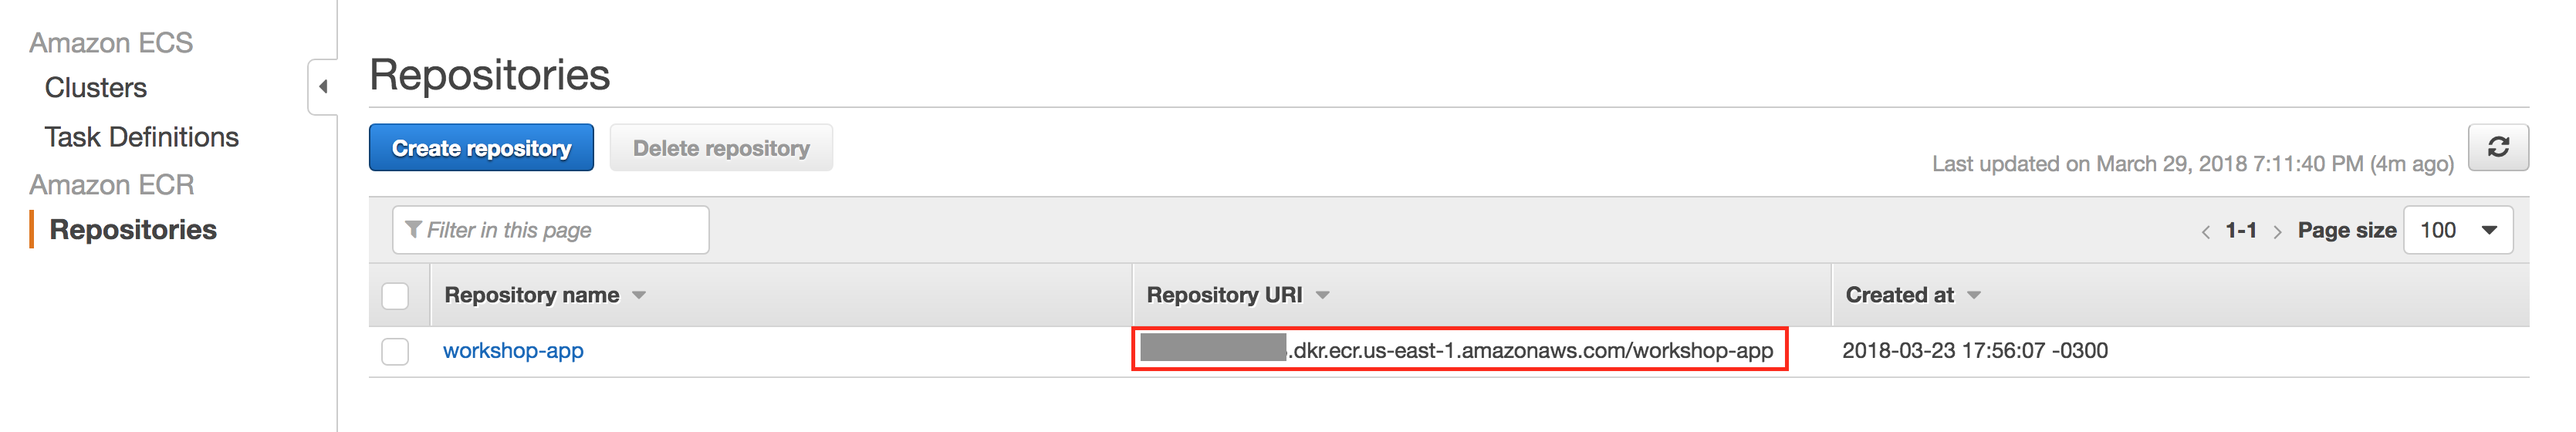
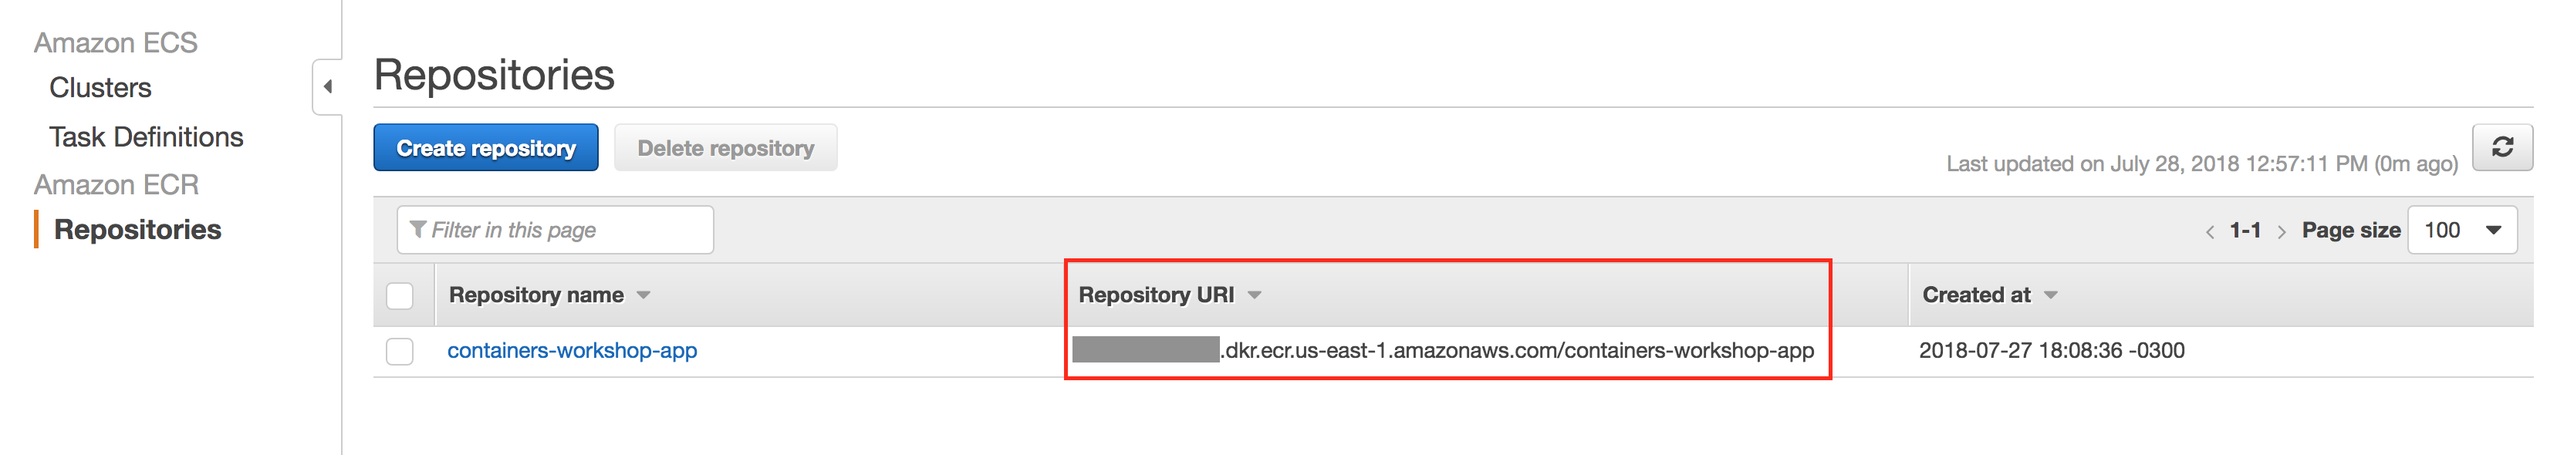
Adding new content

diff --git a/04-DeployEcsCluster/README.md b/04-DeployEcsCluster/README.md
@@ -10,8 +10,7 @@
 * [4. Creating the Task Definition](/04-DeployEcsCluster#4-creating-the-task-definition)
 * [5. Creating the Service](/04-DeployEcsCluster#5-creating-the-service)
 * [6. Testing our service deployments from the console and the ALB](/04-DeployEcsCluster#6-testing-our-service-deployments-from-the-console-and-the-alb)
-* [7. More in-depth logging with CloudWatch](/04-DeployEcsCluster#7-more-in-depth-logging-with-cloudwatch)
-* [8. That's a wrap!](/04-DeployEcsCluster#8-thats-a-wrap)
+* [7. That's a wrap!](/04-DeployEcsCluster#7-thats-a-wrap)
 
 
 ## 1. Tutorial overview
@@ -44,7 +43,7 @@ You will then be asked to input information about your new cluster. In the *Conf
 
 ### Networking
 * VPC: Select the VPC `containers-workshop-vpc` created in the [Create VPC tutorial](/03-CreateVPC)
-* Subnets: Select the `containers-on-aws-private-subnet-az1` and `containers-on-aws-private-subnet-az2` subnets in your VPC
+* Subnets: Select the `containers-workshop-private-subnet-az1` and `containers-workshop-private-subnet-az2` subnets in your VPC
 
 And them click in **Create**.
 
@@ -77,15 +76,18 @@ Name your ALB `containers-workshop-alb` and add an HTTP listener on port 80:
 
 ![name ALB](/04-DeployEcsCluster/images/create_alb.png)
 
-Next, select the VPC previously created and add at the private subnet created in the [Create VPC tutorial](/03-CreateVPC). If you have multiple VPC, and you're not sure which VPC is the correct one, you can find its ID from the VPC console.
+In this same screen, under **Availability Zones** select the VPC `containers-workshop-vpc` previously created  and add select the two public subnets:
 
-After adding the information about your VPC, click in **Next: Configure Security Settings**.
+![select subnets](/04-DeployEcsCluster/images/select_subnets.png)
+
+
+After adding the information about your Availability Zones, click in **Next: Configure Security Settings**.
 
 When clicking in next, you should see a message saying that your load balancer is not using any secure listener. We can just skip this screen, clicking in **Next: Configure Security Groups**.
 
 >NOTE: In a production environment, you should also have a secure listener on port 443.  This will require an SSL certificate, which can be obtained from [AWS Certificate Manager](https://aws.amazon.com/certificate-manager/), or from your registrar/any CA.  For the purposes of this workshop, we will only create the insecure HTTP listener. DO NOT RUN THIS IN PRODUCTION.
 
-Let's now create a security group to be used by your ALB. In the *Step 3: Configure Security Groups* screen, let's select the option `Create a new security group`. Change the **Security group name** to `workshop-alb-sg` and create a rule allowing all traffic in the port `80`:
+Let's now create a security group to be used by your ALB. In the *Step 3: Configure Security Groups* screen, let's select the option `Create a new security group`. Change the **Security group name** to `containers-workshop-alb-sg` and create a rule allowing all traffic in the port `80`:
 
 ![create alb security group](/04-DeployEcsCluster/images/create_alb_sg.png)
 
@@ -95,30 +97,22 @@ During this initial setup, we're just adding a dummy health check on `/`.  We'll
 
 ![add routing](/04-DeployEcsCluster/images/configure_alb_routing.png)
 
-Click in **Next: Register Targets** and them in **Review**. If your values look correct, click **Create**:
+Click in **Next: Register Targets** and them in **Nex: Review**. If your values look correct, click **Create**:
 
 ![alb creation](/04-DeployEcsCluster/images/alb_creation.png)
 
 
-After creating your ALB, you need to update the security group rule so your ALB can access the EC2 instances where your containers will run. In order to identify what is the security group applied to your instances, you can access the ECS console, click in your cluster and them select the tab **ECS Instances**. You will see that you have one instance running. Them, click in the ECS Instance ID:
+After creating your ALB, you need to update the security group rule so your ALB can access the EC2 instances where your containers will run. In order to identify what is the security group applied to your instances, you can access the ECS console, select the cluster `containers-workshop-ecs-cluster` and them select the tab **ECS Instances**. You will see that you have one instance running. Them, click in the ECS Instance ID:
 
 ![ecs instance](/04-DeployEcsCluster/images/ecs_instance.png)
 
 >NOTE: in this screen, you will find two different ID's. One of them is related to the `Container Instance`, which will show you all the tasks running in this specific instance as well as some data from the EC2 Instance. The other ID is the `EC2 Instance` ID, that will redirect you to the EC2 console, where you can manage the EC2 instance.
 
-In the EC2 service dashboard, you will see all the information about your instance. In this screen, click in the security group name. This name is going to be similar to **EC2ContainerService-workshop-ecs-cluster-EcsSecurityGroup-1LAM6XQ29XWLU**:
+In the EC2 service dashboard, you will see all the information about your instance. In this screen, click in the security group name. This name is going to be similar to **EC2ContainerService-containers-workshop-ecs-cluster-EcsSecurityGroup-12SD646C23L1H**:
 
 ![ec2 security group](/04-DeployEcsCluster/images/ec2_security_group.png)
 
-You will be redirected to the security groups console. Take note of the `Group ID` of this security group:
-
-![security group ip](/04-DeployEcsCluster/images/sg_id.png)
-
-Now, let's find the security group created to our Application Load Balancer. In order to find it, type `workshop-alb-sg` in the search field. It will show the security group used by our ALB. Again, copy the the `Group ID` of the security group used by the ALB.
-
-At this moment, you should have two Group ID's: the instance Security Group ID and the ALB Security Group ID. The next step is to create a rule in the Security Group used by the EC2 instance allowing all the traffic from the ALB security group. In order to proceed, let's get back to the instance Security Group. You can do this by searching for the ID that you have. In the instance Security Group, let's now create a new rule.
-
-Select the instance Security Group and click in **Inbound** and them in **Edit**. Here, we will have a rule previously create allowing traffic in the port 80 from anywhere. Let's change this rule, in order to allow all traffic coming from the ALB security group to our EC2 instance. Start changing the `Type` to `All Traffic` and add the ALB Security Group ID in the field `Source`. Finally, let's add a description about this rule, so we will be able to understand what is this rule later. To change the rule, click in **Save**:
+In this scree, with the Security Group selected, click in the tab **Inbound** and them in **Edit**. Here, we will have a rule previously create allowing traffic in the port 80 from anywhere. Let's change this rule, in order to allow all traffic coming from the ALB security group to our EC2 instance. Start changing the `Type` to `All Traffic` and in the field `Source` start typing `sg-`. You will see a list with all the security groups created in your AWS account. Select the security group `containers-workshop-alb-sg` previouly created and click in **Save**:
 
 ![security group configuration](/04-DeployEcsCluster/images/sg_configuration.png)
 
@@ -139,7 +133,7 @@ When working with ECS to run our applications, there are a few concepts that we 
 
 A `Task Definition` is where you will specify your task. Things like the Docker Image version, the amount of CPU and memory that each container will need, what ports needs to be mapped, data volumes, environment variables and other informations are going to be specified in the Task Definition.
 
-The first thing that we will need, is the information about the image that we want to use. In this case, we are going to use the image created in the [Creating Your Docker Image](/02-CreatingDockerImage) tutorial. To get the image URI, navigate to the [ECR page](https://console.aws.amazon.com/ecs/home?region=us-east-1#/repositories). You will see the repository named `workshop-app`. In this screen, you will also see that there is a `Repository URI`. Take note of this URI:
+The first thing that we will need, is the information about the image that we want to use. In this case, we are going to use the image created in the [Creating Your Docker Image](/02-CreatingDockerImage) tutorial. To get the image URI, navigate to the [ECR page](https://console.aws.amazon.com/ecs/home?region=us-east-1#/repositories). You will see the repository named `containers-workshop-app`. In this screen, you will also see that there is a `Repository URI`. Take note of this URI:
 
 ![image uri](/04-DeployEcsCluster/images/image_uri.png)
 
@@ -148,19 +142,19 @@ To create a Task Definition, in the [Task Definitions](https://console.aws.amazo
 
 ![type compatibility](/04-DeployEcsCluster/images/task_compatibility.png)
 
-Let's add now the information about this task definition. Name your task **ecs-workshop-app**:
+Let's add now the information about this task definition. Name your task `containers-workshop-ecs-task-def` and under **Task Role** select `None`:
 
 ![create task def](/04-DeployEcsCluster/images/create_task_def.png)
 
 
-In the `Task execution IAM role` select `Create new role`:
+In the **Task execution IAM role** select `Create new role` and under **Task size** add `128` in the **Task memory (MiB)** field:
 
 ![create task iam](/04-DeployEcsCluster/images/create_task_iam.png)
 
 
-The next step is to add the information about our container. Click in the **Add container** button, under `Container Definitions`. The name of the container will be `ecs-workshop-app`. In the *Image* field, add the URI that you got before, pointing to your image.
+The next step is to add the information about our container. Click in the **Add container** button, under **Container Definitions**. The name of the container will be `containers-workshop-app`. In the **Image** field, add the URI that you got before, pointing to your image.
 
-Add `128` in the *Memory Limits* field and in *Port mapping* add `0` in the *Host port* field and `3000` in the *Container port*.
+Under **Port mappings** add `0` in the **Host port** field and `80` in the *Container port*.
 
 ![container def](/04-DeployEcsCluster/images/container_def.png)
 
@@ -169,7 +163,7 @@ A few things to note here:
 
 - We've specified a specific container image, including the `:latest` tag.  Although it's not important for this demo, in a production environment where you were creating Task Definitions programmatically from a CI/CD pipeline, Task Definitions could include a specific SHA, or a more accurate tag.
 
-- Under **Port Mappings**, we've specified a **Container Port** (3000), but left **Host Port** as 0.  This was intentional, and is used to facilitate dynamic port allocation.  This means that we don't need to map the Container Port to a specific Host Port in our Container Definition - instead, we can let the ALB allocate a port during task placement.  To learn more about port allocation, check out the [ECS documentation here](http://docs.aws.amazon.com/AmazonECS/latest/APIReference/API_PortMapping.html).
+- Under **Port Mappings**, we've specified a **Container Port** (80), but left **Host Port** as 0.  This was intentional, and is used to facilitate dynamic port allocation.  This means that we don't need to map the Container Port to a specific Host Port in our Container Definition - instead, we can let the ALB allocate a port during task placement.  To learn more about port allocation, check out the [ECS documentation here](http://docs.aws.amazon.com/AmazonECS/latest/APIReference/API_PortMapping.html).
 
 Once you've specified your Port Mappings, scroll down and add a log driver.  There are a few options here, but for this demo, select **Auto-configure CloudWatch Logs**:
 
@@ -184,11 +178,11 @@ Now that we have the description of everything we need to run our application in
 
 In ECS, a `Service` allows you to run and maintain a specified number (the "desired count") of instances of a task definition simultaneously in an Amazon ECS cluster. If any of your tasks should fail or stop for any reason, the Amazon ECS service scheduler launches another instance of your task definition to replace it and maintain the desired count of tasks in the service. You can find more information about ECS Services in the [ECS documentation](https://docs.aws.amazon.com/AmazonECS/latest/developerguide/ecs_services.html).
 
-Navigate back to the [Clusters screen](https://console.aws.amazon.com/ecs/home?region=us-east-1#/clusters) on the ECS console, and click in the cluster name **workshop-ecs-cluster** created during the first run wizard.
+Navigate back to the [Clusters screen](https://console.aws.amazon.com/ecs/home?region=us-east-1#/clusters) on the ECS console, and click in the cluster name `containers-workshop-ecs-cluster` previously created.
 
->If you don't have a cluster named **workshop-ecs-cluster**, create one following the procedures in  [Creating the cluster](/04-DeployEcsCluster#2-creating-the-cluster).
+>If you don't have a cluster named **containers-workshop-ecs-cluster**, create one following the procedures in  [Creating the cluster](/04-DeployEcsCluster#2-creating-the-cluster).
 
-In the **workshop-ecs-cluster** cluster details page, click in the button **Create**, in the `Services` tab:
+In the details page of the **containers-workshop-ecs-cluster** , click in the button **Create**, in the `Services` tab:
 
 ![service creation](/04-DeployEcsCluster/images/service_creation.png)
 
@@ -196,21 +190,21 @@ Select `EC2` as the `Launch Type`, and choose the Task Definition created in the
 
 >In a production environment, you will always want more than one copy of each task running for reliability and availability.
 
-Name your service `ecs-service`.
+Name your service `containers-workshop-ecs-service`.
 
 You can keep the default **AZ Balanced Spread** for the Task Placement Policy.  To learn more about the different Task Placement Policies, see the [documentation](http://docs.aws.amazon.com/AmazonECS/latest/developerguide/task-placement-strategies.html), or this [blog post](https://aws.amazon.com/blogs/compute/introducing-amazon-ecs-task-placement-policies/).
 
-![create service](/04-DeployEcsCluster/images/create_service.png)
+  ![create service](/04-DeployEcsCluster/images/create_service.png)
 
 Click in **Next**.
 
-Now, under `Load balancing`, select `Application Load Balancer`. Let's configure the integration between the ECS Service and the Application Load Balancer, so we will be able to access the application using the ALB. Select `Create new role` under `Service IAM role` and under`Container to load balance`, select the container `ecs-workshop-app:0:3000`. Click in **Add to load balancer**:
+Now, under `Load balancing`, select `Application Load Balancer`. Let's configure the integration between the ECS Service and the Application Load Balancer, so we will be able to access the application using the ALB. Select `Create new role` under `Service IAM role` and under`Container to load balance`, select the container `containers-workshop-app:0:80`. Click in **Add to load balancer**:
 
 ![add to ALB](/04-DeployEcsCluster/images/add_container_to_alb.png)
 
-This final step allows you to configure the container with the ALB.  When we created our ALB, we only added a listener for HTTP:80.  Select this from the dropdown as the value for **Listener**.  For **Target Group Name**, enter a value that will make sense to you later, like **ecs-service**.  For **Path Pattern**, the value should be **`/app*`**.  This is the route that we specified in our Python application. In the **Evaluation order**, add the number `1`.
+This final step allows you to configure the container with the ALB.  When we created our ALB, we only added a listener for HTTP:80.  Select this from the dropdown as the value for **Listener**.  For **Target Group Name**, enter a value that will make sense to you later, like `containers-workshop-ecs-target-group`.  For **Path Pattern**, the value should be `/*`. In the **Evaluation order**, add the number `1`.
 
-Finally, **Health check path**, use the value `/app`.
+Finally, **Health check path**, use the value `/`.
 
 ![configure container ALB](/04-DeployEcsCluster/images/configure_container_alb.png)
 
@@ -232,23 +226,6 @@ We can also test from the ALB itself.  To find the DNS A record for your ALB, na
 You can see that the ALB routes traffic appropriately based on the path we specified when we registered the container:  `/app` requests go to our app service.
 
 
-## 7. More in-depth logging with CloudWatch
-
-When we created our Container Definitions, we also added the awslogs driver, which sends logs to the [Cloudwatch](https://aws.amazon.com/cloudwatch/). By default, when using the `awslogs`driver, all the `stdout` will be redirected to CloudWatch. Now, let's navigate to the CloudWatch Logs interface to see the logs generated by our application.
-
-In order to access the CloudWatch logs, access the ECS Console, navigate to the the cluster `workshop-ecs-cluster` and click in the tab `Tasks`. Here, we will see all the tasks running in our cluster. At this moment, you will need to have just one task running. In this tab, click in the task ID, under `Task`:
-
-![task id](/04-DeployEcsCluster/images/task_id.png)
-
-You will access a screen with all the information about the task that is running. Now, under `Containers`, expand the container `ecs-workshop-app`. You will see that under `Log Configuration` exists the option `View logs in CloudWatch`. Click in this link:
-
-![view in cloudwatch](/04-DeployEcsCluster/images/view_in_cloudwatch.png)
-
-You will be able to see the logs generated by your container:
-
-![container logs](/04-DeployEcsCluster/images/container_logs.png)
-
-
-## 8. That's a wrap!
+## 7. That's a wrap!
 
 Congratulations!  You've deployed an ECS Cluster with a working endpoints.  

diff --git a/02-CreatingDockerImage/README.md b/02-CreatingDockerImage/README.md
@@ -1,6 +1,6 @@
 # Creating your Docker image
 
-![container](https://github.com/bemer/containers-on-aws-workshop/blob/master/02-CreatingDockerImage/images/container.png)
+![container](/02-CreatingDockerImage/images/container.png)
 
 
 ## Quick jump:
@@ -117,23 +117,23 @@ To create the group, navigate to the [IAM console](https://console.aws.amazon.co
 
 This is how your group permissions should like after the creation:
 
-![IAM group permissions](https://github.com/bemer/containers-on-aws-workshop/blob/master/02-CreatingDockerImage/images/iam_group_permissions.png)
+![IAM group permissions](/02-CreatingDockerImage/images/iam_group_permissions.png)
 
 Once you've created your group, you need to create a new user and attach this new user to this group. In order to do so, on the IAM console, click in **Users** on the left side of the screen, and them click in the button **Add user**.
 
 The user name will be **containers-workshop-user**. Don't forget to select the **Programmatic access** and the **AWS Management Console access** in the `Access type` just like in the following picture:
 
-![creating user](https://github.com/bemer/containers-on-aws-workshop/blob/master/02-CreatingDockerImage/images/creating_user.png)
+![creating user](/02-CreatingDockerImage/images/creating_user.png)
 
 Now, click in **Next: permissions** and in the **Add user to group** screen, select the group `containers-workshop-group` that we created before:
 
-![add user to group](https://github.com/bemer/containers-on-aws-workshop/blob/master/02-CreatingDockerImage/images/add_user_to_group.png)
+![add user to group](/02-CreatingDockerImage/images/add_user_to_group.png)
 
 >NOTE: If you already have more groups created in your account, you can use the `Search` on the IAM console to find the group that you created before, just like in the picture.
 
 Click in **Next: Review** and check if is everything fine with your user creation. The screen should be similar to this one:
 
-![review user creation](https://github.com/bemer/containers-on-aws-workshop/blob/master/02-CreatingDockerImage/images/review_user_creation.png)
+![review user creation](/02-CreatingDockerImage/images/review_user_creation.png)
 
 In this screen, click in **Create user**.
 
@@ -196,11 +196,11 @@ To create a repository, navigate to the [ECS console](https://console.aws.amazon
 
 Name your first repository **containers-workshop-app**:
 
-![create ecr repository](https://github.com/bemer/containers-on-aws-workshop/blob/master/02-CreatingDockerImage/images/creating_repository.png)
+![create ecr repository](/02-CreatingDockerImage/images/creating_repository.png)
 
 Once you've created the repository, it will display a list of commands that you will need to use to push your Docker images. These commands will be like this:
 
-![push commands](https://github.com/bemer/containers-on-aws-workshop/blob/master/02-CreatingDockerImage/images/push_commands.png)
+![push commands](/02-CreatingDockerImage/images/push_commands.png)
 
 ## 6. Pushing our tested images to ECR
 

diff --git a/03-CreateVPC/README.md b/03-CreateVPC/README.md
@@ -4,7 +4,7 @@ For this workshop, we are going to use a VPC with public and private subnets. Al
 
 > NOTE: If you are running this workshop on a large group of people, you can optionally create just one VPC for the entire workshop, instead of one VPC per workshop participant. This is just to prevent you hitting some VPC limits for your AWS account, like number of VPCs per region and number of Elastic IPs per region.
 
-![VPC structure](https://github.com/bemer/containers-on-aws-workshop/blob/master/03-CreateVPC/images/containers-on-aws-workshop-vpc.png)
+![VPC structure](/03-CreateVPC/images/containers-on-aws-workshop-vpc.png)
 
 # VPC Setup
 
